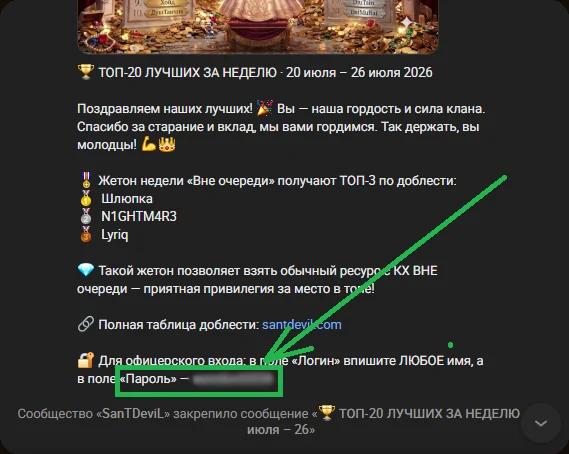
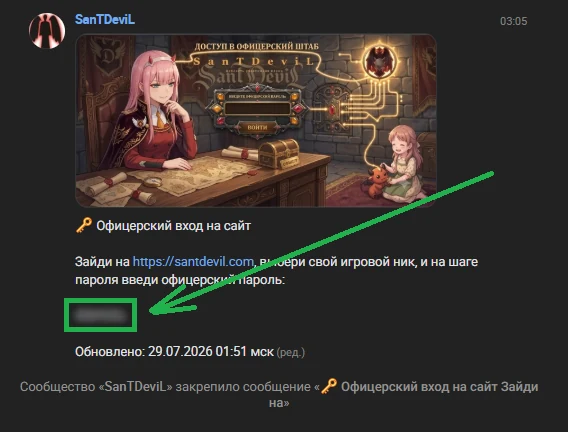
Офиц. демо-скрин «где пароль» = 12312321321313.png (закреп целиком)
Заменил officer-pass-location.webp на полный скрин закрепа со стрелкой на
поле офиц. пароля, показывается целиком (без кропа). Бамп ?v=3.

diff --git a/frontend/js/site-login.js b/frontend/js/site-login.js
@@ -166,8 +166,8 @@
         if (d.officer) {
           if (rl) rl.textContent = "Офицерский пароль (из закрепа офицерского чата)";
           if (rh) rh.innerHTML = "✦ Это <b>офицерский ник</b>. Введи <b>офицерский пароль</b> — он в <b>закреплённом сообщении</b> офицерского чата ВК и Telegram (см. картинку), затем придумай личный.";
-          if (demoImg) demoImg.src = "assets/officer-pass-location.webp?v=2";
-          if (lbImg) lbImg.src = "assets/officer-pass-location.webp?v=2";
+          if (demoImg) demoImg.src = "assets/officer-pass-location.webp?v=3";
+          if (lbImg) lbImg.src = "assets/officer-pass-location.webp?v=3";
           if (capSpan) capSpan.textContent = "📍 Где офицерский пароль? (в закрепе офиц. чата) — нажми, чтобы увеличить";
         } else {
           if (rl) rl.textContent = "Общий пароль клана (кнопка G)";
